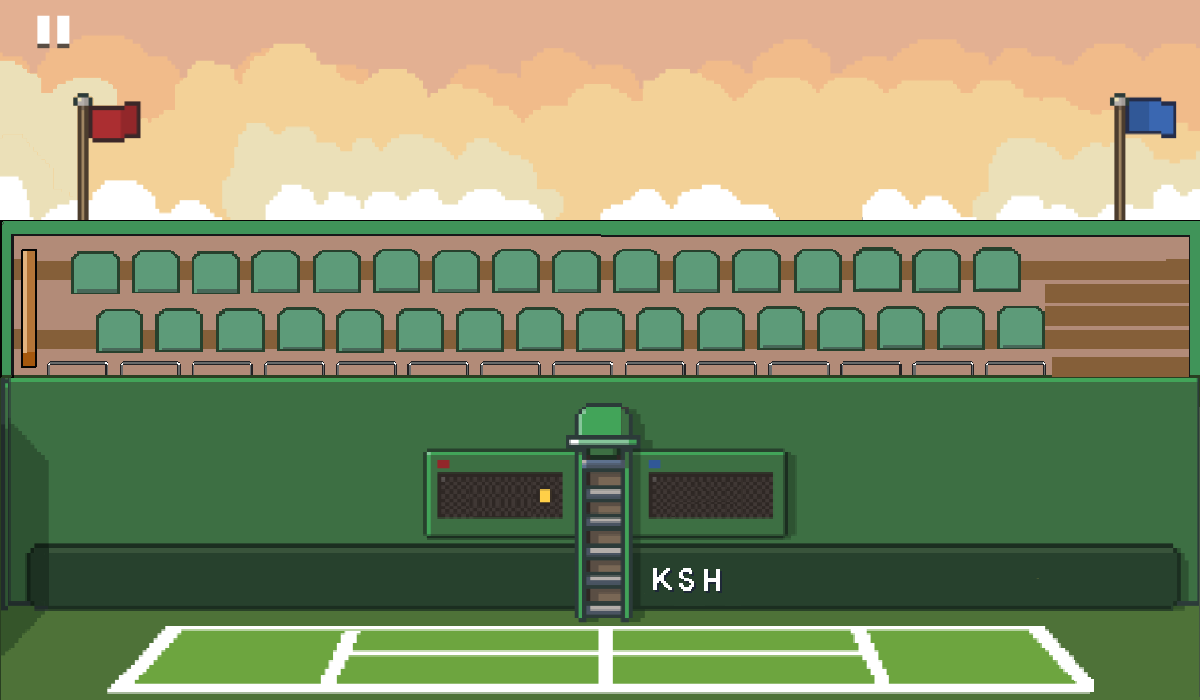
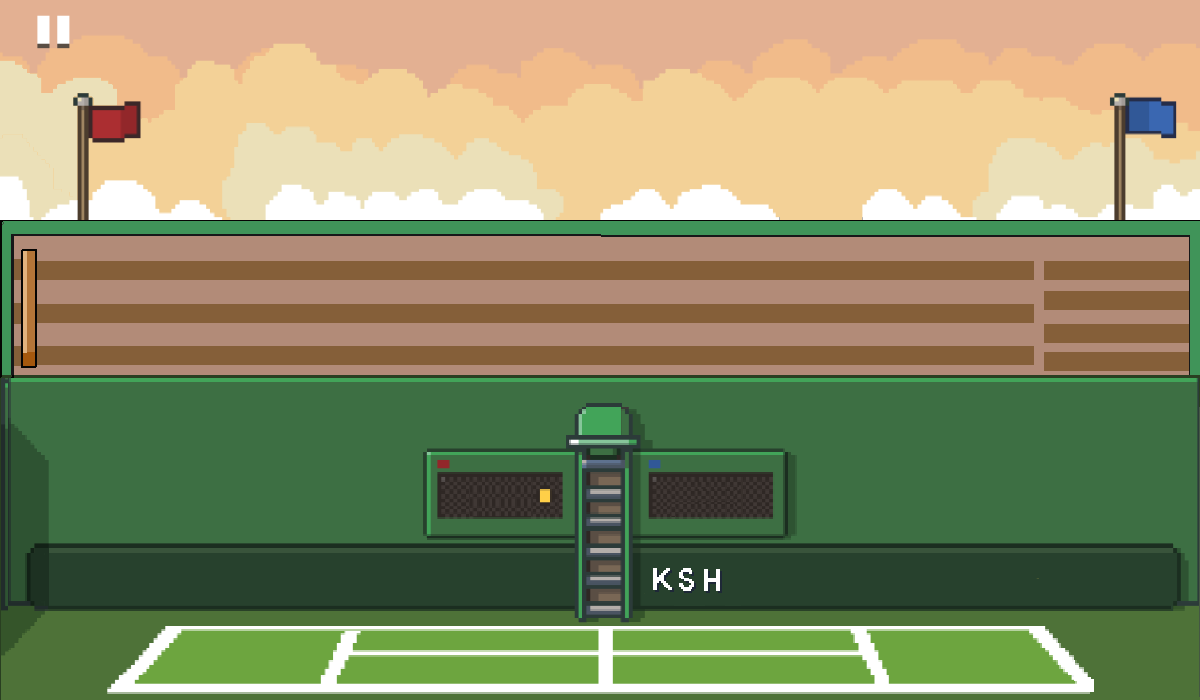
레이어분리완료

Changed region(s): [[0.0, 0.33, 1.0, 0.54]]

diff --git a/background.py b/background.py
@@ -5,7 +5,7 @@ class background:
         self.x=1200//2
         self.y=700//2
 
-        self.image = load_image('resource/bg_new.png')
+        self.image = load_image('resource/bg.png')
 
     def update(self):
         pass
@@ -16,22 +16,96 @@ class background:
         self.image.draw(600,350)
 
 
-class background_start:
+class chair:
     def __init__(self):
-        self.x = 1200 // 2
-        self.y = 700 // 2
+        self.x=520
+        self.y=394
 
-        self.image = load_image('resource/bg_start.png')
+        self.image = load_image('resource/chair.png')
 
     def update(self):
         pass
-
-    def handle_event(self, e):
+    def handle_event(self,e):
         pass
 
     def render(self):
-        self.image.draw(600, 350)
+        self.image.draw(self.x,self.y)
+
+class safe_bar:
+    def __init__(self):
+        self.x=530
+        self.y=335
+
+        self.image = load_image('resource/safe_bar.png')
+
+    def update(self):
+        pass
+    def handle_event(self,e):
+        pass
+
+    def render(self):
+        self.image.draw(self.x,self.y)
+
+
+class p1_layer:
+    def __init__(self):
+        self.x=610
+        self.y=365
+
+        self.image = load_image('resource/p1_layer.png')
+
+    def update(self):
+        pass
+    def handle_event(self,e):
+        pass
+
+    def render(self):
+        self.image.draw(self.x,self.y)
+
+class p2_layer:
+    def __init__(self):
+        self.x=610
+        self.y=200
+
+        self.image = load_image('resource/p2_layer.png')
+
+    def update(self):
+        pass
+    def handle_event(self,e):
+        pass
+
+    def render(self):
+        self.image.draw(self.x,self.y)
 
 
 
+class ui:
+    def __init__(self):
+        self.x=600
+        self.y=60
 
+        self.image = load_image('resource/option1.png')
+
+    def update(self):
+        pass
+    def handle_event(self,e):
+        pass
+
+    def render(self):
+        self.image.draw(self.x,self.y)
+
+
+class logo:
+    def __init__(self):
+        self.x=600
+        self.y=600
+
+        self.image = load_image('resource/logo.png')
+
+    def update(self):
+        pass
+    def handle_event(self,e):
+        pass
+
+    def render(self):
+        self.image.draw(self.x,self.y)

diff --git a/title_mode.py b/title_mode.py
@@ -16,10 +16,12 @@ def handle_events():
             game_framework.running = False
         elif event.type == SDL_MOUSEMOTION:
             mx, my = event.x, 700 - 1 - event.y
-        if event.type == SDL_MOUSEBUTTONDOWN and event.button == SDL_BUTTON_LEFT:
-            if mx > 360 and mx< 900 and my>140 and my<280:
+        elif event.type == SDL_MOUSEBUTTONDOWN and event.button == SDL_BUTTON_LEFT:
+            if mx > 340 and mx< 880 and my>130 and my<260:
                 game_framework.change_mode(play_mode)
-
+        else:
+            p1.handle_event(event)
+            p2.handle_event(event)
 
 
 def init():
@@ -30,11 +32,32 @@ def init():
 
     running = True
 
-    bg =background_start()
+    bg =background()
+    seat = chair()
+    bar =safe_bar()
     ball=Ball()
+    layer1 = p1_layer()
+    layer2 = p2_layer()
+    myui = ui()
+    mylogo =logo()
+    p1=player1()
+    p2=player2()
 
     game_world.addobject(bg,0)
+    game_world.addobject(seat,1)
+    ##관중 2번 에다가 추가하면됨
+    game_world.addobject(bar,3)
+
+
+    game_world.addobject(layer1,3)
+    game_world.addobject(layer2,3)
+
+    game_world.addobject(myui,4)
     game_world.addobject(ball,2)
+
+    game_world.addobject(p1,3)
+    game_world.addobject(p2,3)
+    game_world.addobject(mylogo,3)
 
 
 def update():
@@ -44,8 +67,8 @@ def update():
 def draw():
     clear_canvas()
     game_world.render()
-    # draw_rectangle(360,300,890,430)
-    # draw_rectangle(360,140,900,280)
+    # draw_rectangle(340,300,880,430)
+    # draw_rectangle(340,130,880,260)
     update_canvas()
 
 

diff --git a/play_mode.py b/play_mode.py
@@ -5,13 +5,13 @@ from player2 import *
 from background import *
 from pico2d import *
 
-def handle_events():
 
+def handle_events():
     events = get_events()
     for event in events:
         if event.key == SDLK_ESCAPE:
             game_framework.running = False
-        else :
+        else:
             p1.handle_event(event)
             p2.handle_event(event)
 
@@ -26,21 +26,33 @@ def init():
     running = True
     p1 = player1()
     p2 = player2()
-    bg =background()
-    ball=Ball()
+    bg = background()
+    seat = chair()
+    bar =  safe_bar()
+    ball = Ball()
 
-    game_world.addobject(bg,0)
-    game_world.addobject(p1,1)
-    game_world.addobject(p2,1)
-    game_world.addobject(ball,2)
 
-    game_world.add_collusion_pair("player1:ball",p1,ball)
-    game_world.add_collusion_pair("player2:ball",p2,ball)
+    game_world.addobject(bg, 0)
+
+    game_world.addobject(ball, 2)
+
+    game_world.addobject(seat, 1)
+    #2번 레이어 에 관중추가
+
+
+    game_world.addobject(bar, 3)
+    game_world.addobject(p1, 3)
+    game_world.addobject(p2, 3)
+
+    game_world.add_collusion_pair("player1:ball", p1, ball)
+    game_world.add_collusion_pair("player2:ball", p2, ball)
+
 
 def update():
     game_world.update()
 
     game_world.handle_collusions()
+
 
 def draw():
     clear_canvas()
@@ -51,8 +63,10 @@ def draw():
 def pause():
     pass
 
+
 def resume():
     pass
+
 
 def finish():
     game_world.clear()

diff --git a/game_world.py b/game_world.py
@@ -4,7 +4,7 @@ from background import *
 from pico2d import *
 
 
-world=[[],[],[],[]]
+world=[[],[],[],[],[]]
 
 collusion_world = {}
 
